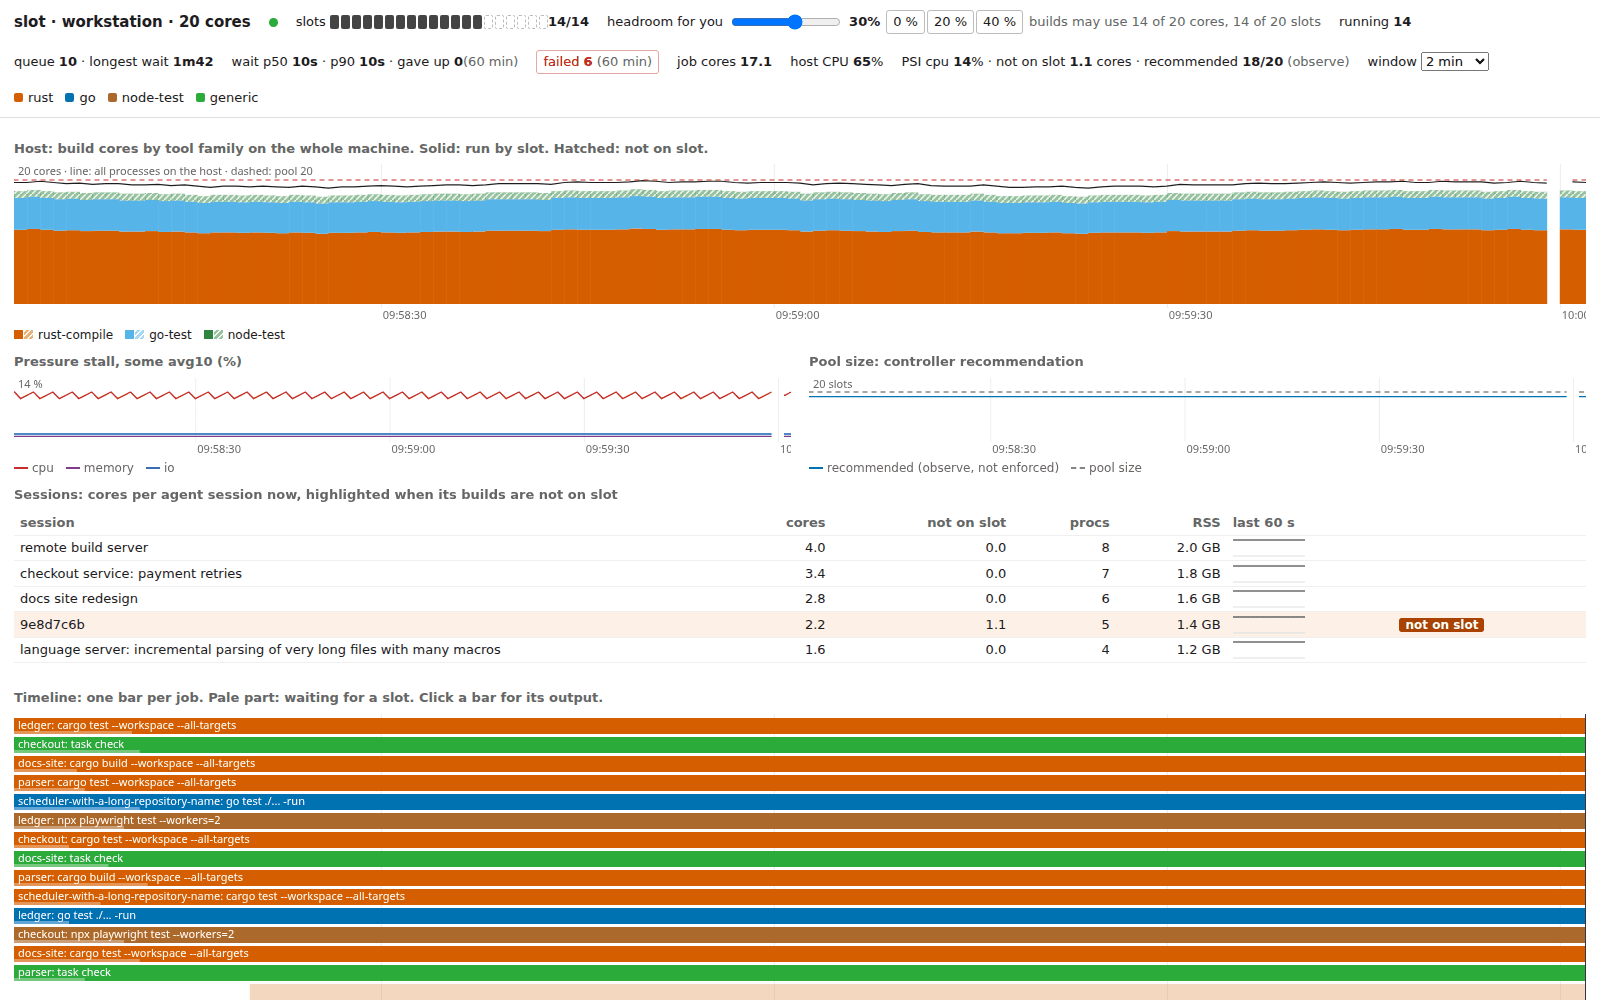
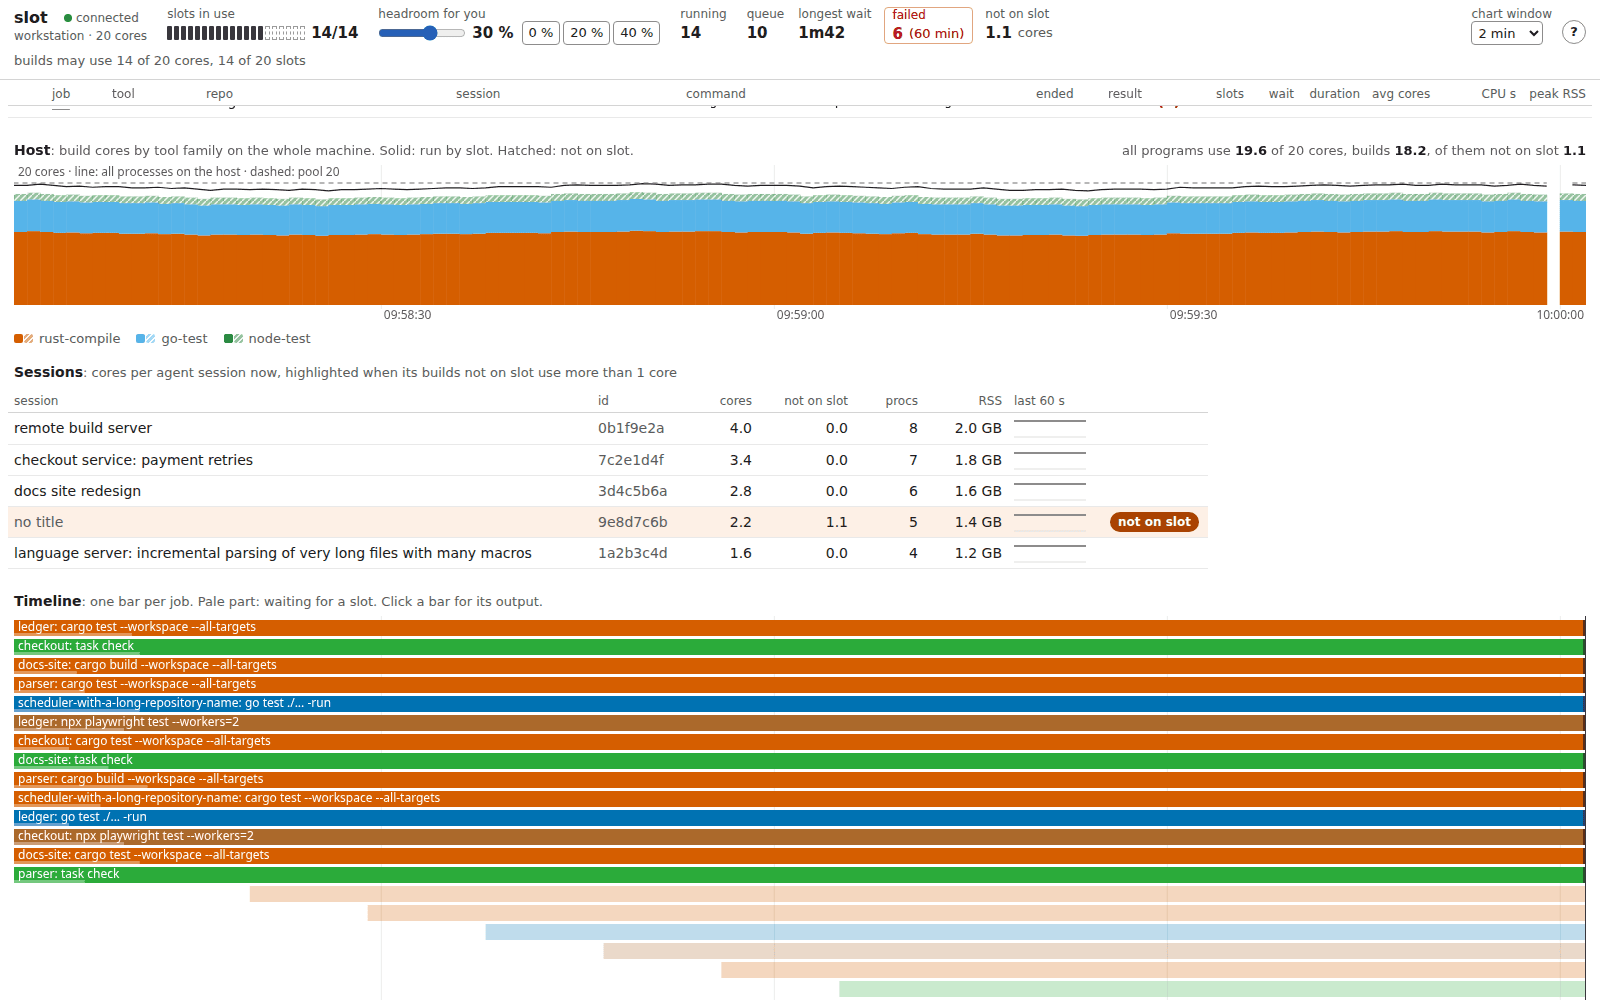
Release 0.20.0
Version 0.20.0 in the workspace, the lock file, the install command of
the docs and both plugin manifests; the changelog entries since 0.19.1
move under `## 0.20.0 — 2026-11-22`.

What the release holds: the web view's new page (three line charts,
then Running, Queue, Finished; one header height; one table grid; state
in words), the per-minute record of the compile cache's counters, the
cache environment and the cache warnings of a rust job, the UX gate
steps with a time limit of 120 s, and the warning about the machine
base on the headroom page.

Docs: the status list covers the changelog up to 0.20.0, with a new
item for the compile cache record and the web view's item rewritten;
the three screenshots of the web view are rendered again from the UX
scenarios. `ux/hero.ts` frames the two job-table shots at the top of
the page, since Running and the Queue now start in the first screen.

AGENTS.md, open work (l): the forge's times of both UX steps after the
change, and one local run that was stopped at its limit.

diff --git a/ui/ux/hero.ts b/ui/ux/hero.ts
@@ -52,11 +52,12 @@ try {
   }, 'ui-host-census.png');
   await shot(await ctx(), 'queue-position', async (p) => {
     for (let i = 0; i < 2; i++) await p.getByRole('button', { name: /^show units of job/ }).first().click();
-    await p.getByRole('heading', { name: /^Queue/ }).evaluate((h) => window.scrollTo(0, h.getBoundingClientRect().top + window.scrollY - 140));
+    // The page starts with the charts, Running and the Queue: the shot is the first screen.
+    await p.evaluate(() => window.scrollTo(0, 0));
   }, 'ui-queue-live-units.png');
   await shot(await ctx(), 'busy-failed', async (p) => {
     await p.getByRole('button', { name: 'output of job 42', exact: true }).click();
-    await p.getByRole('heading', { name: /^Running/ }).evaluate((h) => window.scrollTo(0, h.getBoundingClientRect().top + window.scrollY - 140));
+    await p.evaluate(() => window.scrollTo(0, 0));
   }, 'ui-job-output.png');
   await browser.close();
 } finally {

diff --git a/AGENTS.md b/AGENTS.md
@@ -233,7 +233,7 @@ API. Writing tokens into the live jobserver FIFO by hand is a last resort for a 
 
 ## Open work
 
-Done: 0.1.0 to 0.19.1 (`CHANGELOG.md`): one jobserver pool with a queue ordered by job priority,
+Done: 0.1.0 to 0.20.0 (`CHANGELOG.md`): one jobserver pool with a queue ordered by job priority,
 admission by disk and memory, headroom and call mode, headroom of the machine, slots named by the
 job (`--tokens`), the web view with each project's share of the pool (`slot usage`), remote mode, the gate for builds in a sandbox, handover on reload, lost-token
 recovery, and eviction of local target directories (deletes by default, `evict.json` sets a dry run).
@@ -269,9 +269,12 @@ Open, one line each, with where the design lives. A session starts with (e).
   `story:a-whole-pool-request-does-not-stall-the-queue`.
 - (l) `task ui-ux` and `task site-ux` stop themselves at 120 s. `ui-ux` (87 tests) went from
   240 s and 251 s to 75 s and 102 s on a workstation at load 30 to 36; the forge took 145 s before
-  that change and has not run it since. `site-ux` (86 tests, 84 s on the forge before the
+  that change. `site-ux` (86 tests, 84 s on the forge before the
   change) is still over 120 s on a workstation at load 32 and above: stopped at 123 s with 33
-  tests done while the load rose from 32 to 43. Its tests no longer wait fixed times and the
+  tests done while the load rose from 32 to 43. After the change the forge took 45.5 s and
+  54.5 s for `ui-ux` (87 and 89 tests) and 36.1 s and 46.1 s for `site-ux`; `ui-ux` with 89
+  tests was stopped at 123 s with 52 done on a workstation at load 41. Its tests no longer
+  wait fixed times and the
   reader's Tab presses go out in batches; what is left is the work of the pages. One gates test
   took 7.1 s at load 56 (page load 1.8 s, hydration 0.9 s, loading axe-core 1.0 s, its run 2.6 s)
   and there are 48. Left: three forge runs of `ui-ux` under 100 s; `site-ux` under 120 s on a

diff --git a/website/docs/getting-started.md b/website/docs/getting-started.md
@@ -19,7 +19,7 @@ Each [release](https://github.com/beyond10x/slot/releases) carries one archive p
 includes the web UI.
 
 ```console
-version=0.19.1
+version=0.20.0
 target=x86_64-unknown-linux-gnu
 base=https://github.com/beyond10x/slot/releases/download/$version
 curl -LO "$base/slot-$version-$target.tar.gz"

diff --git a/CHANGELOG.md b/CHANGELOG.md
@@ -1,6 +1,6 @@
 # Changelog
 
-## Unreleased
+## 0.20.0 — 2026-11-22
 
 - Web view: one row of three line charts stands directly under the header (cores used on the
   whole machine, pressure, pool size), and the job tables read Running, Queue, Finished.
